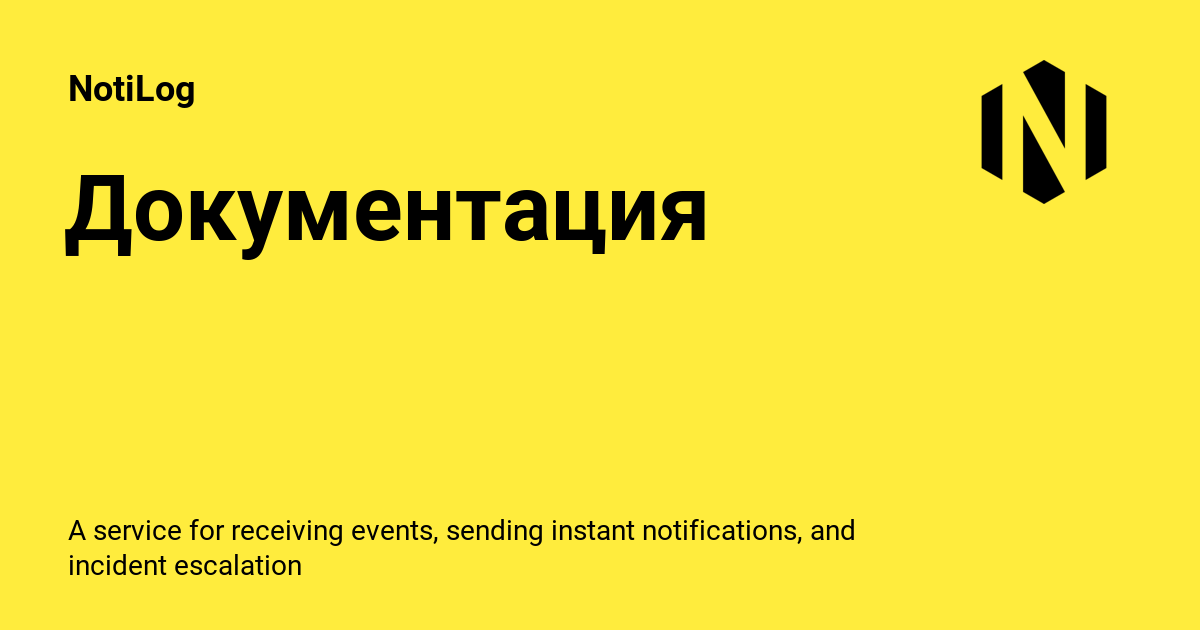
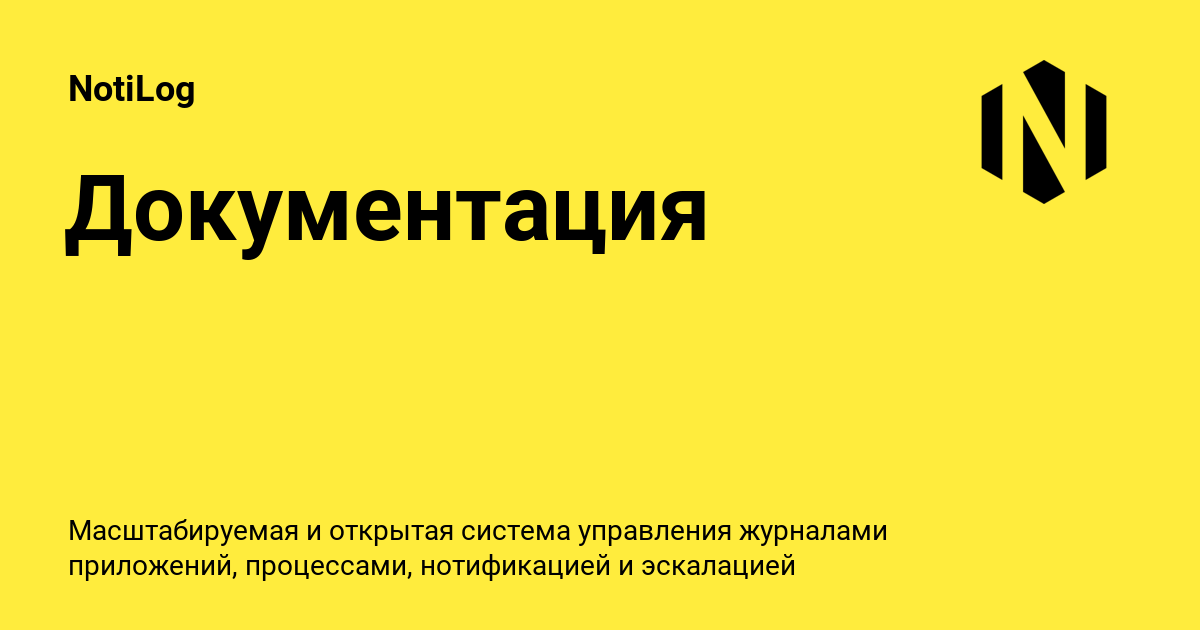
Deployed 154a603 with MkDocs version: 1.6.1

Changed region(s): [[0.0617, 0.8143, 0.74, 0.9349]]

diff --git a/docs/installation-guide/installation/index.html b/docs/installation-guide/installation/index.html
@@ -6,7 +6,7 @@
     <meta charset="utf-8">
     <meta name="viewport" content="width=device-width,initial-scale=1">
     
-    <meta name="description" content="A service for receiving events, sending instant notifications, and incident escalation">
+    <meta name="description" content="Масштабируемая и открытая система управления журналами приложений, процессами, нотификацией и эскалацией инцидентов.">
     
     
     <meta name="author" content="Vladimir Penzin">
@@ -67,7 +67,7 @@
       
         <meta  property="og:title"  content="Руководство по установке - NotiLog" >
       
-        <meta  property="og:description"  content="A service for receiving events, sending instant notifications, and incident escalation" >
+        <meta  property="og:description"  content="Масштабируемая и открытая система управления журналами приложений, процессами, нотификацией и эскалацией инцидентов." >
       
         <meta  property="og:image"  content="https://www.notilog.ru/assets/images/social/docs/installation-guide/installation.png" >
       
@@ -83,7 +83,7 @@
       
         <meta  name="twitter:title"  content="Руководство по установке - NotiLog" >
       
-        <meta  name="twitter:description"  content="A service for receiving events, sending instant notifications, and incident escalation" >
+        <meta  name="twitter:description"  content="Масштабируемая и открытая система управления журналами приложений, процессами, нотификацией и эскалацией инцидентов." >
       
         <meta  name="twitter:image"  content="https://www.notilog.ru/assets/images/social/docs/installation-guide/installation.png" >
       

diff --git a/docs/guides/faq/index.html b/docs/guides/faq/index.html
@@ -6,7 +6,7 @@
     <meta charset="utf-8">
     <meta name="viewport" content="width=device-width,initial-scale=1">
     
-    <meta name="description" content="A service for receiving events, sending instant notifications, and incident escalation">
+    <meta name="description" content="Масштабируемая и открытая система управления журналами приложений, процессами, нотификацией и эскалацией инцидентов.">
     
     
     <meta name="author" content="Vladimir Penzin">
@@ -67,7 +67,7 @@
       
         <meta  property="og:title"  content="Часто задаваемые вопросы (FAQ) - NotiLog" >
       
-        <meta  property="og:description"  content="A service for receiving events, sending instant notifications, and incident escalation" >
+        <meta  property="og:description"  content="Масштабируемая и открытая система управления журналами приложений, процессами, нотификацией и эскалацией инцидентов." >
       
         <meta  property="og:image"  content="https://www.notilog.ru/assets/images/social/docs/guides/faq.png" >
       
@@ -83,7 +83,7 @@
       
         <meta  name="twitter:title"  content="Часто задаваемые вопросы (FAQ) - NotiLog" >
       
-        <meta  name="twitter:description"  content="A service for receiving events, sending instant notifications, and incident escalation" >
+        <meta  name="twitter:description"  content="Масштабируемая и открытая система управления журналами приложений, процессами, нотификацией и эскалацией инцидентов." >
       
         <meta  name="twitter:image"  content="https://www.notilog.ru/assets/images/social/docs/guides/faq.png" >
       

diff --git a/docs/howto/backup/index.html b/docs/howto/backup/index.html
@@ -6,7 +6,7 @@
     <meta charset="utf-8">
     <meta name="viewport" content="width=device-width,initial-scale=1">
     
-    <meta name="description" content="A service for receiving events, sending instant notifications, and incident escalation">
+    <meta name="description" content="Масштабируемая и открытая система управления журналами приложений, процессами, нотификацией и эскалацией инцидентов.">
     
     
     <meta name="author" content="Vladimir Penzin">
@@ -67,7 +67,7 @@
       
         <meta  property="og:title"  content="Резервное копирование - NotiLog" >
       
-        <meta  property="og:description"  content="A service for receiving events, sending instant notifications, and incident escalation" >
+        <meta  property="og:description"  content="Масштабируемая и открытая система управления журналами приложений, процессами, нотификацией и эскалацией инцидентов." >
       
         <meta  property="og:image"  content="https://www.notilog.ru/assets/images/social/docs/howto/backup/index.png" >
       
@@ -83,7 +83,7 @@
       
         <meta  name="twitter:title"  content="Резервное копирование - NotiLog" >
       
-        <meta  name="twitter:description"  content="A service for receiving events, sending instant notifications, and incident escalation" >
+        <meta  name="twitter:description"  content="Масштабируемая и открытая система управления журналами приложений, процессами, нотификацией и эскалацией инцидентов." >
       
         <meta  name="twitter:image"  content="https://www.notilog.ru/assets/images/social/docs/howto/backup/index.png" >
       

diff --git a/docs/concepts/examples/index.html b/docs/concepts/examples/index.html
@@ -6,7 +6,7 @@
     <meta charset="utf-8">
     <meta name="viewport" content="width=device-width,initial-scale=1">
     
-    <meta name="description" content="A service for receiving events, sending instant notifications, and incident escalation">
+    <meta name="description" content="Масштабируемая и открытая система управления журналами приложений, процессами, нотификацией и эскалацией инцидентов.">
     
     
     <meta name="author" content="Vladimir Penzin">
@@ -67,7 +67,7 @@
       
         <meta  property="og:title"  content="Примеры использования - NotiLog" >
       
-        <meta  property="og:description"  content="A service for receiving events, sending instant notifications, and incident escalation" >
+        <meta  property="og:description"  content="Масштабируемая и открытая система управления журналами приложений, процессами, нотификацией и эскалацией инцидентов." >
       
         <meta  property="og:image"  content="https://www.notilog.ru/assets/images/social/docs/concepts/examples.png" >
       
@@ -83,7 +83,7 @@
       
         <meta  name="twitter:title"  content="Примеры использования - NotiLog" >
       
-        <meta  name="twitter:description"  content="A service for receiving events, sending instant notifications, and incident escalation" >
+        <meta  name="twitter:description"  content="Масштабируемая и открытая система управления журналами приложений, процессами, нотификацией и эскалацией инцидентов." >
       
         <meta  name="twitter:image"  content="https://www.notilog.ru/assets/images/social/docs/concepts/examples.png" >
       

diff --git a/docs/contact/feedback/index.html b/docs/contact/feedback/index.html
@@ -6,7 +6,7 @@
     <meta charset="utf-8">
     <meta name="viewport" content="width=device-width,initial-scale=1">
     
-    <meta name="description" content="A service for receiving events, sending instant notifications, and incident escalation">
+    <meta name="description" content="Масштабируемая и открытая система управления журналами приложений, процессами, нотификацией и эскалацией инцидентов.">
     
     
     <meta name="author" content="Vladimir Penzin">
@@ -65,7 +65,7 @@
       
         <meta  property="og:title"  content="Внести предложение - NotiLog" >
       
-        <meta  property="og:description"  content="A service for receiving events, sending instant notifications, and incident escalation" >
+        <meta  property="og:description"  content="Масштабируемая и открытая система управления журналами приложений, процессами, нотификацией и эскалацией инцидентов." >
       
         <meta  property="og:image"  content="https://www.notilog.ru/assets/images/social/docs/contact/feedback.png" >
       
@@ -81,7 +81,7 @@
       
         <meta  name="twitter:title"  content="Внести предложение - NotiLog" >
       
-        <meta  name="twitter:description"  content="A service for receiving events, sending instant notifications, and incident escalation" >
+        <meta  name="twitter:description"  content="Масштабируемая и открытая система управления журналами приложений, процессами, нотификацией и эскалацией инцидентов." >
       
         <meta  name="twitter:image"  content="https://www.notilog.ru/assets/images/social/docs/contact/feedback.png" >
       

diff --git a/docs/installation-guide/requirements/index.html b/docs/installation-guide/requirements/index.html
@@ -6,7 +6,7 @@
     <meta charset="utf-8">
     <meta name="viewport" content="width=device-width,initial-scale=1">
     
-    <meta name="description" content="A service for receiving events, sending instant notifications, and incident escalation">
+    <meta name="description" content="Масштабируемая и открытая система управления журналами приложений, процессами, нотификацией и эскалацией инцидентов.">
     
     
     <meta name="author" content="Vladimir Penzin">
@@ -67,7 +67,7 @@
       
         <meta  property="og:title"  content="Требования - NotiLog" >
       
-        <meta  property="og:description"  content="A service for receiving events, sending instant notifications, and incident escalation" >
+        <meta  property="og:description"  content="Масштабируемая и открытая система управления журналами приложений, процессами, нотификацией и эскалацией инцидентов." >
       
         <meta  property="og:image"  content="https://www.notilog.ru/assets/images/social/docs/installation-guide/requirements.png" >
       
@@ -83,7 +83,7 @@
       
         <meta  name="twitter:title"  content="Требования - NotiLog" >
       
-        <meta  name="twitter:description"  content="A service for receiving events, sending instant notifications, and incident escalation" >
+        <meta  name="twitter:description"  content="Масштабируемая и открытая система управления журналами приложений, процессами, нотификацией и эскалацией инцидентов." >
       
         <meta  name="twitter:image"  content="https://www.notilog.ru/assets/images/social/docs/installation-guide/requirements.png" >
       

diff --git a/docs/architecture/client/index.html b/docs/architecture/client/index.html
@@ -6,7 +6,7 @@
     <meta charset="utf-8">
     <meta name="viewport" content="width=device-width,initial-scale=1">
     
-    <meta name="description" content="A service for receiving events, sending instant notifications, and incident escalation">
+    <meta name="description" content="Масштабируемая и открытая система управления журналами приложений, процессами, нотификацией и эскалацией инцидентов.">
     
     
     <meta name="author" content="Vladimir Penzin">
@@ -67,7 +67,7 @@
       
         <meta  property="og:title"  content="Клиентская часть - NotiLog" >
       
-        <meta  property="og:description"  content="A service for receiving events, sending instant notifications, and incident escalation" >
+        <meta  property="og:description"  content="Масштабируемая и открытая система управления журналами приложений, процессами, нотификацией и эскалацией инцидентов." >
       
         <meta  property="og:image"  content="https://www.notilog.ru/assets/images/social/docs/architecture/client.png" >
       
@@ -83,7 +83,7 @@
       
         <meta  name="twitter:title"  content="Клиентская часть - NotiLog" >
       
-        <meta  name="twitter:description"  content="A service for receiving events, sending instant notifications, and incident escalation" >
+        <meta  name="twitter:description"  content="Масштабируемая и открытая система управления журналами приложений, процессами, нотификацией и эскалацией инцидентов." >
       
         <meta  name="twitter:image"  content="https://www.notilog.ru/assets/images/social/docs/architecture/client.png" >
       

diff --git a/docs/architecture/server/index.html b/docs/architecture/server/index.html
@@ -6,7 +6,7 @@
     <meta charset="utf-8">
     <meta name="viewport" content="width=device-width,initial-scale=1">
     
-    <meta name="description" content="A service for receiving events, sending instant notifications, and incident escalation">
+    <meta name="description" content="Масштабируемая и открытая система управления журналами приложений, процессами, нотификацией и эскалацией инцидентов.">
     
     
     <meta name="author" content="Vladimir Penzin">
@@ -67,7 +67,7 @@
       
         <meta  property="og:title"  content="Серверная часть - NotiLog" >
       
-        <meta  property="og:description"  content="A service for receiving events, sending instant notifications, and incident escalation" >
+        <meta  property="og:description"  content="Масштабируемая и открытая система управления журналами приложений, процессами, нотификацией и эскалацией инцидентов." >
       
         <meta  property="og:image"  content="https://www.notilog.ru/assets/images/social/docs/architecture/server.png" >
       
@@ -83,7 +83,7 @@
       
         <meta  name="twitter:title"  content="Серверная часть - NotiLog" >
       
-        <meta  name="twitter:description"  content="A service for receiving events, sending instant notifications, and incident escalation" >
+        <meta  name="twitter:description"  content="Масштабируемая и открытая система управления журналами приложений, процессами, нотификацией и эскалацией инцидентов." >
       
         <meta  name="twitter:image"  content="https://www.notilog.ru/assets/images/social/docs/architecture/server.png" >
       

diff --git a/docs/concepts/core/index.html b/docs/concepts/core/index.html
@@ -6,7 +6,7 @@
     <meta charset="utf-8">
     <meta name="viewport" content="width=device-width,initial-scale=1">
     
-    <meta name="description" content="A service for receiving events, sending instant notifications, and incident escalation">
+    <meta name="description" content="Масштабируемая и открытая система управления журналами приложений, процессами, нотификацией и эскалацией инцидентов.">
     
     
     <meta name="author" content="Vladimir Penzin">
@@ -67,7 +67,7 @@
       
         <meta  property="og:title"  content="Основные концепции - NotiLog" >
       
-        <meta  property="og:description"  content="A service for receiving events, sending instant notifications, and incident escalation" >
+        <meta  property="og:description"  content="Масштабируемая и открытая система управления журналами приложений, процессами, нотификацией и эскалацией инцидентов." >
       
         <meta  property="og:image"  content="https://www.notilog.ru/assets/images/social/docs/concepts/core.png" >
       
@@ -83,7 +83,7 @@
       
         <meta  name="twitter:title"  content="Основные концепции - NotiLog" >
       
-        <meta  name="twitter:description"  content="A service for receiving events, sending instant notifications, and incident escalation" >
+        <meta  name="twitter:description"  content="Масштабируемая и открытая система управления журналами приложений, процессами, нотификацией и эскалацией инцидентов." >
       
         <meta  name="twitter:image"  content="https://www.notilog.ru/assets/images/social/docs/concepts/core.png" >
       

diff --git a/docs/quickstart-guide/index.html b/docs/quickstart-guide/index.html
@@ -6,7 +6,7 @@
     <meta charset="utf-8">
     <meta name="viewport" content="width=device-width,initial-scale=1">
     
-    <meta name="description" content="A service for receiving events, sending instant notifications, and incident escalation">
+    <meta name="description" content="Масштабируемая и открытая система управления журналами приложений, процессами, нотификацией и эскалацией инцидентов.">
     
     
     <meta name="author" content="Vladimir Penzin">
@@ -67,7 +67,7 @@
       
         <meta  property="og:title"  content="Быстрый старт - NotiLog" >
       
-        <meta  property="og:description"  content="A service for receiving events, sending instant notifications, and incident escalation" >
+        <meta  property="og:description"  content="Масштабируемая и открытая система управления журналами приложений, процессами, нотификацией и эскалацией инцидентов." >
       
         <meta  property="og:image"  content="https://www.notilog.ru/assets/images/social/docs/quickstart-guide/index.png" >
       
@@ -83,7 +83,7 @@
       
         <meta  name="twitter:title"  content="Быстрый старт - NotiLog" >
       
-        <meta  name="twitter:description"  content="A service for receiving events, sending instant notifications, and incident escalation" >
+        <meta  name="twitter:description"  content="Масштабируемая и открытая система управления журналами приложений, процессами, нотификацией и эскалацией инцидентов." >
       
         <meta  name="twitter:image"  content="https://www.notilog.ru/assets/images/social/docs/quickstart-guide/index.png" >
       

diff --git a/docs/howto/deploy/index.html b/docs/howto/deploy/index.html
@@ -6,7 +6,7 @@
     <meta charset="utf-8">
     <meta name="viewport" content="width=device-width,initial-scale=1">
     
-    <meta name="description" content="A service for receiving events, sending instant notifications, and incident escalation">
+    <meta name="description" content="Масштабируемая и открытая система управления журналами приложений, процессами, нотификацией и эскалацией инцидентов.">
     
     
     <meta name="author" content="Vladimir Penzin">
@@ -67,7 +67,7 @@
       
         <meta  property="og:title"  content="Развертывание - NotiLog" >
       
-        <meta  property="og:description"  content="A service for receiving events, sending instant notifications, and incident escalation" >
+        <meta  property="og:description"  content="Масштабируемая и открытая система управления журналами приложений, процессами, нотификацией и эскалацией инцидентов." >
       
         <meta  property="og:image"  content="https://www.notilog.ru/assets/images/social/docs/howto/deploy/index.png" >
       
@@ -83,7 +83,7 @@
       
         <meta  name="twitter:title"  content="Развертывание - NotiLog" >
       
-        <meta  name="twitter:description"  content="A service for receiving events, sending instant notifications, and incident escalation" >
+        <meta  name="twitter:description"  content="Масштабируемая и открытая система управления журналами приложений, процессами, нотификацией и эскалацией инцидентов." >
       
         <meta  name="twitter:image"  content="https://www.notilog.ru/assets/images/social/docs/howto/deploy/index.png" >
       

diff --git a/docs/howto/update/index.html b/docs/howto/update/index.html
@@ -6,7 +6,7 @@
     <meta charset="utf-8">
     <meta name="viewport" content="width=device-width,initial-scale=1">
     
-    <meta name="description" content="A service for receiving events, sending instant notifications, and incident escalation">
+    <meta name="description" content="Масштабируемая и открытая система управления журналами приложений, процессами, нотификацией и эскалацией инцидентов.">
     
     
     <meta name="author" content="Vladimir Penzin">
@@ -67,7 +67,7 @@
       
         <meta  property="og:title"  content="Обновление - NotiLog" >
       
-        <meta  property="og:description"  content="A service for receiving events, sending instant notifications, and incident escalation" >
+        <meta  property="og:description"  content="Масштабируемая и открытая система управления журналами приложений, процессами, нотификацией и эскалацией инцидентов." >
       
         <meta  property="og:image"  content="https://www.notilog.ru/assets/images/social/docs/howto/update/index.png" >
       
@@ -83,7 +83,7 @@
       
         <meta  name="twitter:title"  content="Обновление - NotiLog" >
       
-        <meta  name="twitter:description"  content="A service for receiving events, sending instant notifications, and incident escalation" >
+        <meta  name="twitter:description"  content="Масштабируемая и открытая система управления журналами приложений, процессами, нотификацией и эскалацией инцидентов." >
       
         <meta  name="twitter:image"  content="https://www.notilog.ru/assets/images/social/docs/howto/update/index.png" >
       
